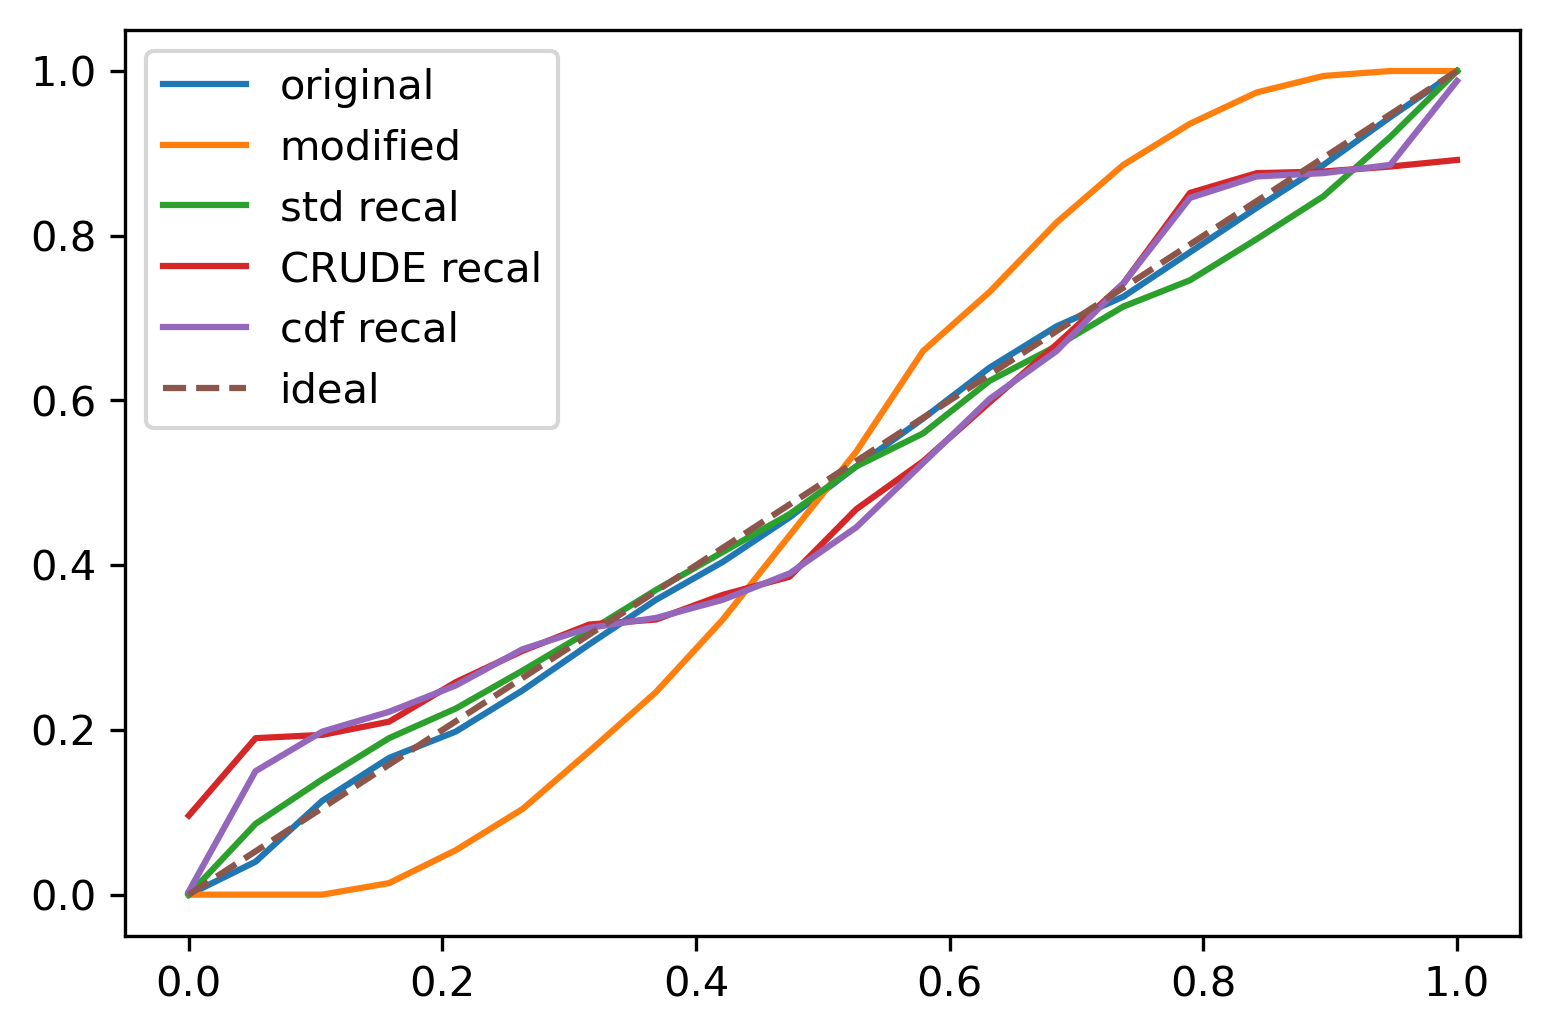
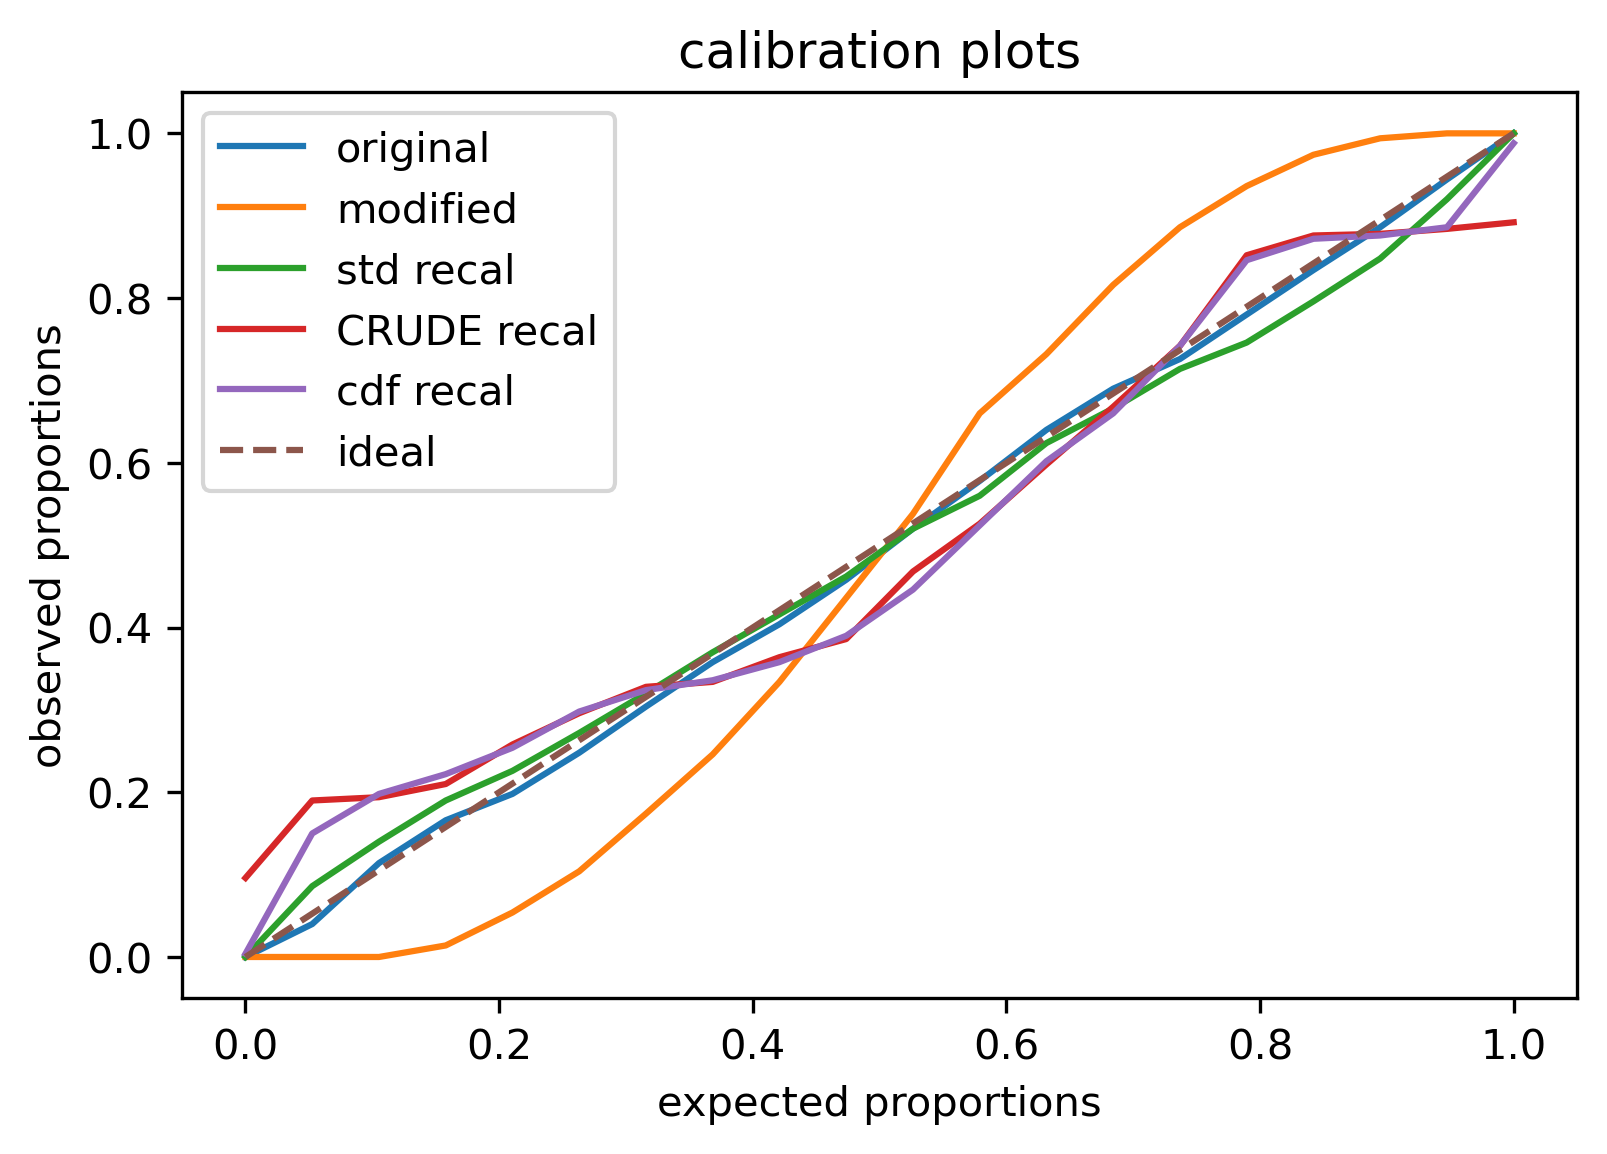
mn

Changed region(s): [[0.0, 0.0, 0.991, 0.9894], [0.3406, 0.742, 0.3716, 0.7729], [0.3097, 0.7729, 0.3406, 0.8039]]

diff --git a/examples/caller.py b/examples/caller.py
@@ -30,7 +30,7 @@ f_test, std_test, y_test = Y_test[:, 0], Y_test[:, 1], Y_test[:, 2]
 f_recal, std_recal, y_recal = Y_recal[:, 0], Y_recal[:, 1], Y_recal[:, 2]
 # f_recal, std_recal, y_recal = f_tot, std_tot, y_tot
 #%%
-exp_props, obs_props, intervals, rmsces, stds_final = [], [], [], [], []
+exp_props, obs_props, intervals, rmsces, means_final, stds_final = [], [], [], [], [], []
 perc = 0.95
 #%%
 props = get_proportions(f_tot, std_orig, y_tot)
@@ -41,6 +41,7 @@ intervals.append(get_intervals(f_tot, std_orig, perc))
 
 rmsces.append(get_rmsce(props))
 
+means_final.append(f_tot)
 stds_final.append(std_orig)
 #%%
 props = get_proportions(f_tot, std_tot, y_tot)
@@ -51,6 +52,7 @@ intervals.append(get_intervals(f_tot, std_tot, perc))
 
 rmsces.append(get_rmsce(props))
 
+means_final.append(f_tot)
 stds_final.append(std_tot)
 #%%
 recal_model = get_calibrator(f_recal, std_recal, y_recal, 'std_recal')
@@ -66,10 +68,10 @@ intervals.append(get_intervals(f_tot, std_tot, perc, cal_dict={'method': 'std_re
 
 rmsces.append(get_rmsce(props))
 
+means_final.append(f_tot)
 stds_final.append(std_r1)
 #%%
 recal_model = get_calibrator(f_recal, std_recal, y_recal, 'CRUDE')
-
 props = get_proportions(f_tot, std_tot, y_tot, cal_dict={'method': 'CRUDE',
                                                          'model': recal_model})
 exp_props.append(props[0])
@@ -80,8 +82,15 @@ intervals.append(get_intervals(f_tot, std_tot, perc, cal_dict={'method': 'CRUDE'
 
 rmsces.append(get_rmsce(props))
 
-inv_recal_model = [f_recal, std_recal, y_recal] 
-stds_final.append(get_stds_from_cdfs(f_tot, std_tot, 
+inv_recal_model = recal_model
+
+new_means = get_means_from_cdfs(f_tot, std_tot, 
+                                     inv_recal = {'method': 'CRUDE_recal',
+                                                  'model': inv_recal_model})
+
+means_final.append(new_means)
+
+stds_final.append(get_stds_from_cdfs(new_means, std_tot, 
                                      inv_recal = {'method': 'CRUDE_recal',
                                                   'model': inv_recal_model}))
 #%%
@@ -101,18 +110,26 @@ iexp_props, iobs_props = get_proportions(f_recal, std_recal, y_recal
                                          , prop_type = 'cdf_quantile')
 
 inv_recal_model = inverse_iso_recal(iexp_props, iobs_props)
+
+new_means = get_means_from_cdfs(f_tot, std_tot, 
+                                     inv_recal = {'method': 'cdf_recal',
+                                                  'model': inv_recal_model})
+
+means_final.append(new_means)
      
 stds_final.append(get_stds_from_cdfs(f_tot, std_tot, 
                                      inv_recal = {'method': 'cdf_recal',
                                                   'model': inv_recal_model}))
 #%%
+labels = ['original', 'modified', 'std recal', 'CRUDE recal', 'cdf recal']
+
 fig, axs = plt.subplots(2, 3)
 fig.set_size_inches(10, 7)
-fig.tight_layout(pad=3.0)
+fig.tight_layout(pad=4.5)
 
 for i, (p, r) in enumerate([(0, 0), (0, 1), (1, 0), (1, 1), (1, 2)]):
     axs[p, r].plot(x_tot, y_tot, '.')
-    axs[p, r].plot(x_tot, f_tot)
+    axs[p, r].plot(x_tot, means_final[i])
     axs[p, r].fill_between(
             x_tot,
             intervals[i][0],
@@ -120,40 +137,60 @@ for i, (p, r) in enumerate([(0, 0), (0, 1), (1, 0), (1, 1), (1, 2)]):
             color="lightsteelblue",
             alpha=0.4,
         )
+    axs[p, r].set_xlabel('x')   
+    axs[p, r].set_ylabel('y')
     axs[p, r].set_ylim([-3, 3])
-    axs[p, r].title.set_text('Original \n E = ' + str(round(rmsces[i],3)) + ', S = ' + 
+    axs[p, r].title.set_text(labels[i] + '\n E = ' + str(round(rmsces[i],3)) + ', S = ' + 
                              str(round(np.mean(intervals[i][1] - intervals[i][0]),3)))
 plt.savefig('data_inc.png', dpi = 300, bbox_inches="tight")
 plt.show()    
 #%%
 fig2, axs2 = plt.subplots(2, 3)
 fig2.set_size_inches(10, 7)
-fig2.tight_layout(pad=3.0)
+fig2.tight_layout(pad=4.0)
 
 xx = np.arange(-5, 5, 0.1)
 for i, (p, r) in enumerate([(0, 0), (0, 1), (1, 0), (1, 1), (1, 2)]):
-    scaled_res = get_scaled_residuals(f_tot, stds_final[i], y_tot)
+    scaled_res = get_scaled_residuals(means_final[i], stds_final[i], y_tot)
     
     axs2[p, r].hist(scaled_res, bins = 20, density = True)
     axs2[p, r].plot(xx, stats.norm.pdf(xx, 0, 1))
     mu, std = stats.norm.fit(scaled_res) 
     axs2[p, r].plot(xx, stats.norm.pdf(xx, mu, std))
     axs2[p, r].set_xlim([-5, 5])
+    axs2[p, r].set_ylim([0, 0.5])
+    axs2[p, r].set_xlabel('scaled residual')   
+    axs2[p, r].set_ylabel('PDF')
+    axs2[p, r].title.set_text(labels[i])
 plt.savefig('hist_inc.png', dpi = 300, bbox_inches="tight")
 plt.show()
 #%%
-labels = ['original', 'modified', 'std recal', 'CRUDE recal', 'cdf recal']
 for i in range(len(stds_final)):
     plt.plot(exp_props[i], obs_props[i], label=labels[i])
 plt.plot([0, 1], [0, 1], "--", label='ideal')
+plt.xlabel('expected proportions')
+plt.ylabel('observed proportions')
 plt.legend()
+plt.title('calibration plots')
 plt.savefig('calibration_inc.png', dpi = 300, bbox_inches="tight")
+plt.show()
+
+for i in range(len(means_final)):
+    plt.plot(x_tot, means_final[i], label=labels[i])
+plt.legend()
+plt.xlabel('x')
+plt.ylabel('mean')
+plt.title('new means')
+plt.savefig('means_inc.png', dpi = 300, bbox_inches="tight")
 plt.show()
 
 # plt.plot(modifier, label = 'modifier')
 for i in range(len(stds_final)):
     plt.plot(x_tot, stds_final[i], label=labels[i])
 plt.legend()
+plt.xlabel('x')
+plt.ylabel('std')
+plt.title('new stds')
 plt.savefig('std_inc.png', dpi = 300, bbox_inches="tight")
 plt.show()
 
@@ -161,6 +198,9 @@ plt.show()
 for i in range(len(stds_final)):   
     plt.plot(x_tot, intervals[i][1] - intervals[i][0], label=labels[i])
 plt.legend()
+plt.xlabel('x')
+plt.ylabel('interval width')
+plt.title('new 95% confidence intervals')
 plt.savefig('perc_inc.png', dpi = 300, bbox_inches="tight")
 plt.show()
 
@@ -168,6 +208,9 @@ plt.show()
 for i in range(len(stds_final)):   
     plt.plot(x_tot, (intervals[i][1] - intervals[i][0]) / stds_final[i], label=labels[i])
 plt.legend()
+plt.xlabel('x')
+plt.ylabel('interval width / std')
+plt.title('non normality plots')
 plt.savefig('non_normal_inc.png', dpi = 300, bbox_inches="tight")
 plt.show()
 

diff --git a/examples/calibration_funs.py b/examples/calibration_funs.py
@@ -27,54 +27,58 @@ def CRUDE_cdf(mu_recal, sigma_recal, y_recal, mu_eval, sigma_eval, y_evals):
     
     return np.array(cdf_list)
 
-def get_stds_from_cdfs(means, un_cal_stds, inv_recal = {'method': None,
-                                                        'model': None}):
+def get_means_from_cdfs(un_cal_means, un_cal_stds, inv_recal = {'method': None,
+                                                        'model': None},
+                        locs = np.linspace(0, 10, 1000)):
     
-    cdfs = []
+    # Only for CDF and CRUDE recalibration
+    if inv_recal['method'] == 'CRUDE_recal':
+        crude_mean = np.mean(inv_recal['model'])
+        
+    means = []
+    for mu, sigma in zip(un_cal_means, un_cal_stds):
+        if inv_recal['method'] == 'cdf_recal':
+            norm = stats.norm(loc=mu, scale=sigma)
+            cdf = norm.cdf
+            
+            mu_vals_1 = 1 - inv_recal['model'].predict(cdf(locs))
+            mu_vals_2 = inv_recal['model'].predict(cdf(-locs))
+        
+            means.append(np.trapz(mu_vals_1, x = locs) - np.trapz(mu_vals_2, x = locs))
+            
+        elif inv_recal['method'] == 'CRUDE_recal':
+            means.append(mu + sigma * crude_mean)
+            
+    return means
+    
+def get_stds_from_cdfs(means, un_cal_stds, inv_recal = {'method': None,
+                                                        'model': None},
+                       locs = np.linspace(0, 10, 10000)):
+    
+    stds = []
     if inv_recal['method'] in [None, 'cdf_recal']:
         for mu, sigma in zip(means, un_cal_stds):
             norm = stats.norm(loc=mu, scale=sigma)
-            cdfs.append(norm.cdf)
-    elif inv_recal['method'] == 'CRUDE_recal': 
+            cdf = norm.cdf
+            
+            if inv_recal['method'] is None:
+                cdf_vals = cdf(np.sqrt(locs)) - cdf(-np.sqrt(locs))
+            elif inv_recal['method'] == 'cdf_recal':
+                cdf_vals = inv_recal['model'].predict(cdf(np.sqrt(locs))) - inv_recal['model'].predict(cdf(-np.sqrt(locs)))
+                
+            vec = (1 - cdf_vals)  
+        
+            app = np.sqrt(np.trapz(vec, x = locs) - mu**2) if \
+                np.trapz(vec, x = locs) - mu**2 > 0 else 0.01
+            stds.append(app)
+                
+    elif inv_recal['method'] == 'CRUDE_recal':
+        crude_mean = np.mean(inv_recal['model'])
+        crude_std = np.sqrt(np.mean((inv_recal['model'] - crude_mean)**2))
+        
         for mu, sigma in zip(means, un_cal_stds):
-            cdfs.append([mu, sigma])
+            stds.append(sigma * crude_std)
     
-    stds = []
-    for cdf, mu in zip(cdfs, means):
-        locs = np.linspace(0, 5, 1000)
-        
-        if inv_recal['method'] is None:
-            cdf_vals = cdf(np.sqrt(locs)) - cdf(-np.sqrt(locs))
-            
-        elif inv_recal['method'] == 'cdf_recal':
-            cdf_vals = inv_recal['model'].predict(cdf(np.sqrt(locs))) - inv_recal['model'].predict(cdf(-np.sqrt(locs)))
-            
-            locs2 = np.linspace(0, 10, 1000)
-            mu_vals_1 = 1 - inv_recal['model'].predict(cdf(locs2))
-            mu_vals_2 = inv_recal['model'].predict(cdf(-locs2))
-            
-            # plt.plot(mu_vals_1)
-            # plt.plot(mu_vals_2)
-            
-            
-            mu_new = np.trapz(mu_vals_1, x = locs2) - np.trapz(mu_vals_2, x = locs2)
-            # print(np.abs(mu_new - mu))
-            
-        elif inv_recal['method'] == 'CRUDE_recal':
-            
-            cdf_new = lambda y: CRUDE_cdf(*inv_recal['model'], 
-                                      *cdf,
-                                      y)
-            cdf_vals = cdf_new(np.sqrt(locs)) - cdf_new(-np.sqrt(locs))
-            
-        # plt.plot(cdf_vals)
-            
-        vec = (1 - cdf_vals)  
-        
-        app = np.sqrt(np.trapz(vec, x = locs) - mu**2) if \
-            np.trapz(vec, x = locs) - mu**2 > 0 else 0.01
-        stds.append(app)
-        
     return stds
 
 def get_calibrator(mu, sigma, y, method):

diff --git a/examples/don_caller.py b/examples/don_caller.py
@@ -53,9 +53,13 @@ plt.show()
 exp_props, obs_props, intervals, rmsces = [], [], [], []
 perc = 0.95
 #%%
+new_mean_list = []
+#%%
 props = get_proportions(f_con, std_con, y_con)
 exp_props.append(props[0])
 obs_props.append(props[1])
+
+new_mean_list.append(f_list)
 
 intervals.append([get_intervals(el1, el2, perc) for el1, el2 in zip(f_list, std_list)])
 
@@ -65,6 +69,8 @@ rmsces.append(get_rmsce(props))
 props = get_proportions(f_con, std_mod_con, y_con)
 exp_props.append(props[0])
 obs_props.append(props[1])
+
+new_mean_list.append(f_list)
 
 intervals.append([get_intervals(el1, el2, perc) for el1, el2 in zip(f_list, std_mod_list)])
 
@@ -77,6 +83,8 @@ props = get_proportions(f_con, std_mod_con, y_con, cal_dict={'method': 'std_reca
 
 exp_props.append(props[0])
 obs_props.append(props[1])
+
+new_mean_list.append(f_list)
 
 intervals.append([get_intervals(el1, el2, perc, cal_dict={'method': 'std_recal',
                                                                'model': recal_model})
@@ -91,6 +99,12 @@ props = get_proportions(f_con, std_mod_con, y_con, cal_dict={'method': 'CRUDE',
 exp_props.append(props[0])
 obs_props.append(props[1])
 
+inv_recal_model = recal_model
+new_mean_list.append([get_means_from_cdfs(el1, el2, 
+                                     inv_recal = {'method': 'CRUDE_recal',
+                                                  'model': inv_recal_model})
+                      for el1, el2 in zip(f_list, std_mod_list)])
+
 intervals.append([get_intervals(el1, el2, perc, cal_dict={'method': 'CRUDE',
                                                                'model': recal_model})
                    for el1, el2 in zip(f_list, std_mod_list)])
@@ -103,6 +117,15 @@ props = get_proportions(f_con, std_mod_con, y_con, cal_dict={'method': 'cdf_reca
                                                          'model': recal_model})
 exp_props.append(props[0])
 obs_props.append(props[1])
+
+iexp_props, iobs_props = get_proportions(f_recal, std_recal, y_recal
+                                         , prop_type = 'cdf_quantile')
+inv_recal_model = inverse_iso_recal(iexp_props, iobs_props)
+
+new_mean_list.append([get_means_from_cdfs(el1, el2, 
+                                     inv_recal = {'method': 'cdf_recal',
+                                                  'model': inv_recal_model})
+                      for el1, el2 in zip(f_list, std_mod_list)])
 
 intervals.append([get_intervals(el1, el2, perc, cal_dict={'method': 'cdf_recal',
                                                                'model': recal_model})

diff --git a/uncertainty_toolbox/data.py b/uncertainty_toolbox/data.py
@@ -57,8 +57,13 @@ def synthetic_sine_heteroscedastic(
 
     x = np.linspace(bounds[0], bounds[1], n_points)
 
-    f = np.sin(x * (iden - 5))
-    std = 0.01 + np.abs(x - 5.0 - iden) / 10.0
+    f = np.sin(x)
+    std = 0.01 + np.abs(x - 5.0) / 10.0
+
+# =============================================================================
+#     f = np.sin(x * (iden - 5))
+#     std = 0.01 + np.abs(x - 5.0 - iden) / 10.0
+# =============================================================================
     noise = np.random.normal(scale=std)
     y = f + noise
     
